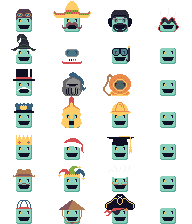
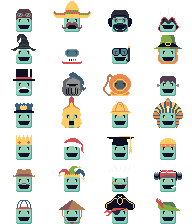
adding some new hats

diff --git a/game/lib/screens/game/hats.dart b/game/lib/screens/game/hats.dart
@@ -29,6 +29,12 @@ enum Hat {
   CHEF,
   PIRATE_CAPTAIN,
   ASSASSIN,
+  LEPRECHAUN,
+  FRANK,
+  PHARAOH,
+  VIKING,
+  DRINKING_HAT,
+  ARCHER,
 }
 
 class HatSprite {
@@ -56,7 +62,7 @@ class HatSprite {
             x - 50 * delta,
             y - 50 * delta,
             150 * delta,
-            100 * delta 
+            100 * delta
             )
         );
   }
@@ -86,6 +92,12 @@ class HatSprite {
   Sprite get pirateCaptain => _spriteSheet.getSprite(6, 2);
 
   Sprite get assassin => _spriteSheet.getSprite(0, 3);
+  Sprite get leprechaun => _spriteSheet.getSprite(1, 3);
+  Sprite get frank => _spriteSheet.getSprite(2, 3);
+  Sprite get pharaoh => _spriteSheet.getSprite(3, 3);
+  Sprite get viking => _spriteSheet.getSprite(4, 3);
+  Sprite get drinkingHat => _spriteSheet.getSprite(5, 3);
+  Sprite get archer => _spriteSheet.getSprite(6, 3);
 
   String get label {
     switch(_hat) {
@@ -154,6 +166,24 @@ class HatSprite {
       }
       case Hat.ASSASSIN: {
         return "Assassin";
+      }
+      case Hat.LEPRECHAUN: {
+        return "Leprechaun";
+      }
+      case Hat.FRANK: {
+        return "Frank";
+      }
+      case Hat.PHARAOH: {
+        return "Pharaoh";
+      }
+      case Hat.VIKING: {
+        return "Viking";
+      }
+      case Hat.DRINKING_HAT: {
+        return "Drinking Hat";
+      }
+      case Hat.ARCHER: {
+        return "Archer";
       }
     }
   }
@@ -225,6 +255,24 @@ class HatSprite {
       }
       case Hat.ASSASSIN: {
         return assassin;
+      }
+      case Hat.LEPRECHAUN: {
+        return leprechaun;
+      }
+      case Hat.FRANK: {
+        return frank;
+      }
+      case Hat.PHARAOH: {
+        return pharaoh;
+      }
+      case Hat.VIKING: {
+        return viking;
+      }
+      case Hat.DRINKING_HAT: {
+        return drinkingHat;
+      }
+      case Hat.ARCHER: {
+        return archer;
       }
     }
   }
